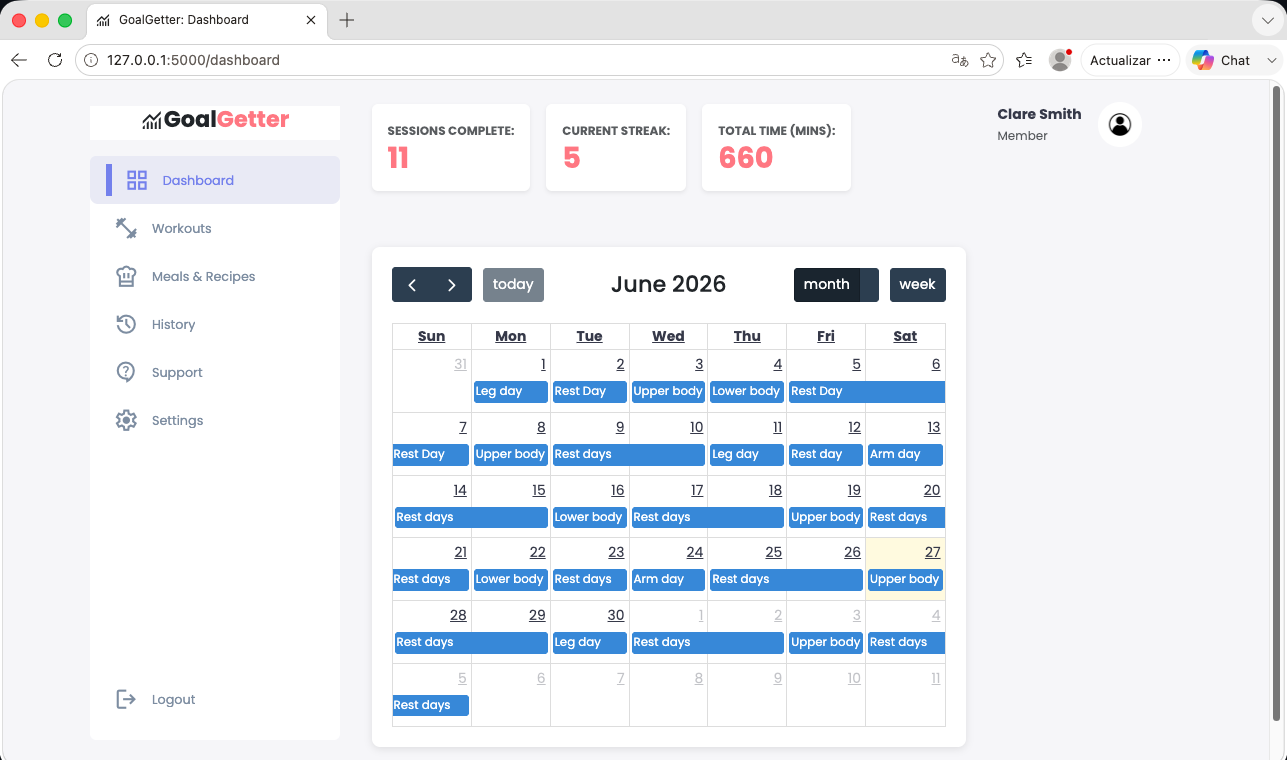
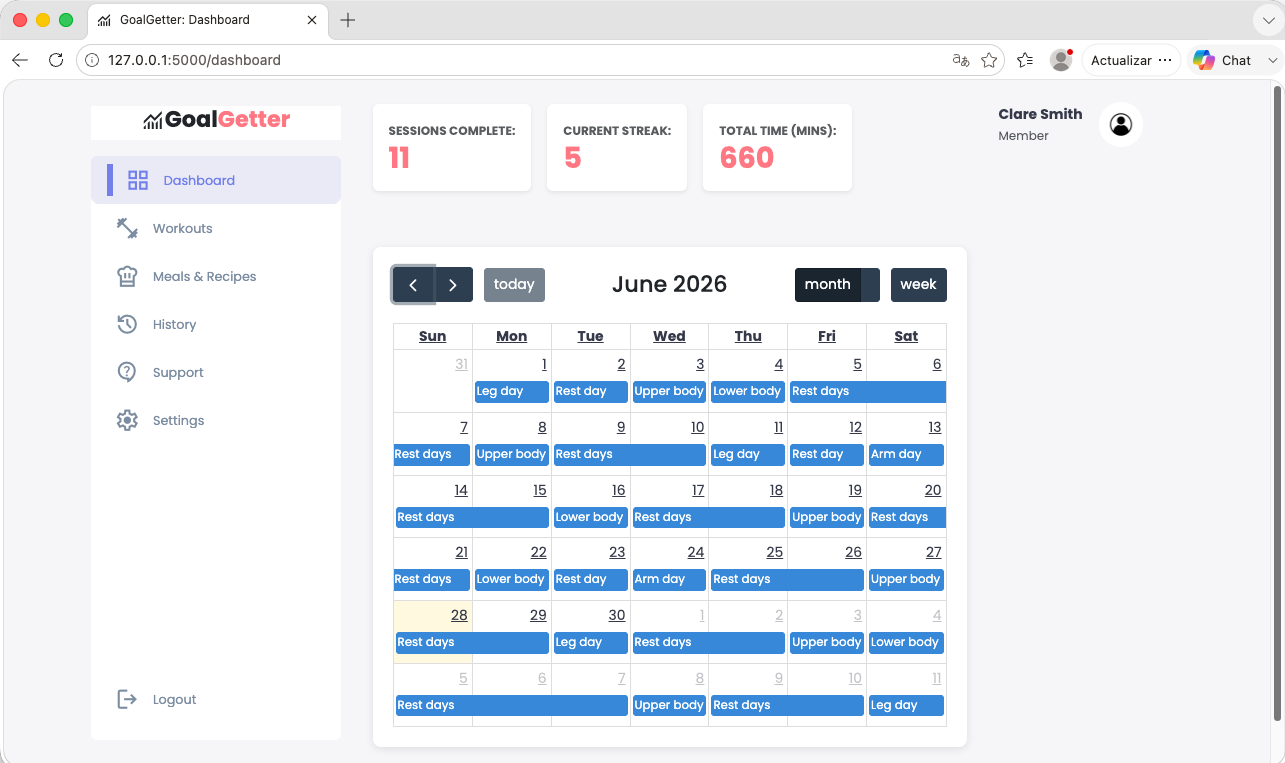
updated UI interface for mocked data intentional-use / functionality

diff --git a/README.md b/README.md
@@ -399,7 +399,7 @@ The meal planning feature currently uses predefined meal suggestions to generate
 
 ### 📊 Dashboard/ progress (Neha)
 
-***Note*** *The dashboard currently uses sample data to demostrate the user interface. Integration with live backend data is planned for future development*
+***Note*** *The dashboard currently uses sample data to demonstrate the user interface. Integration with live backend data is planned for future development*
 
 #### Frontend & Backend Setup
 
